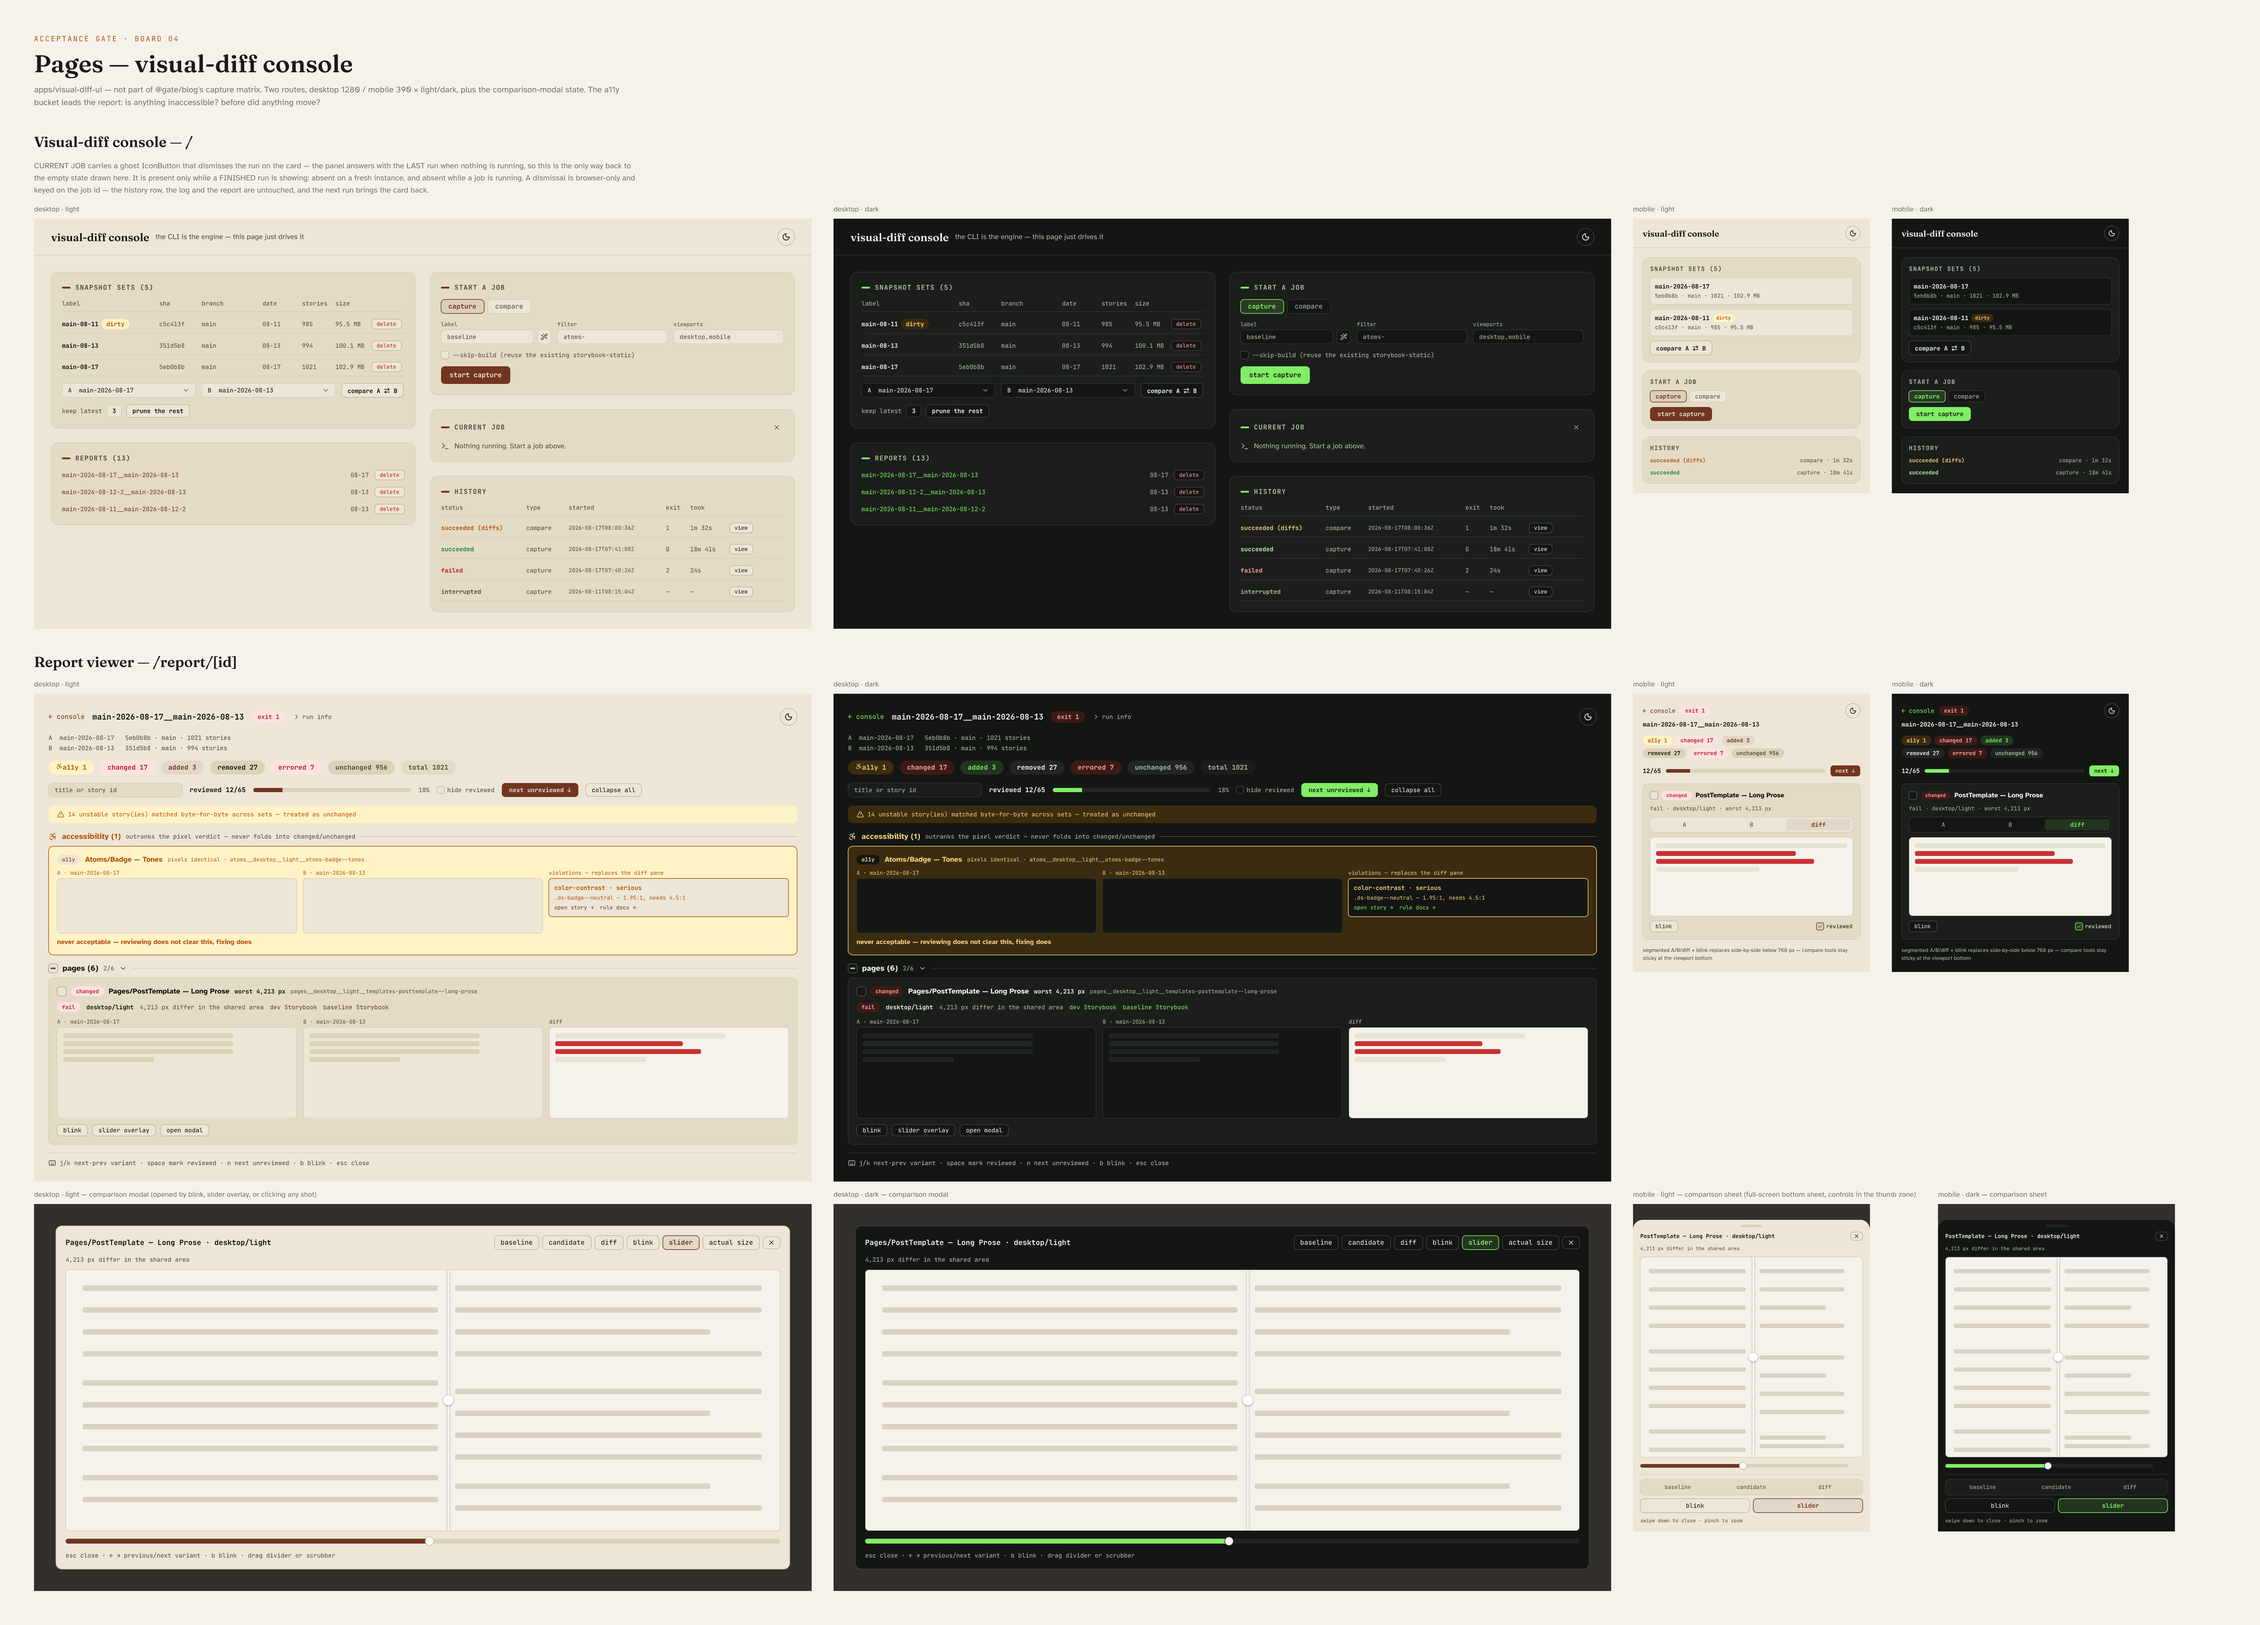
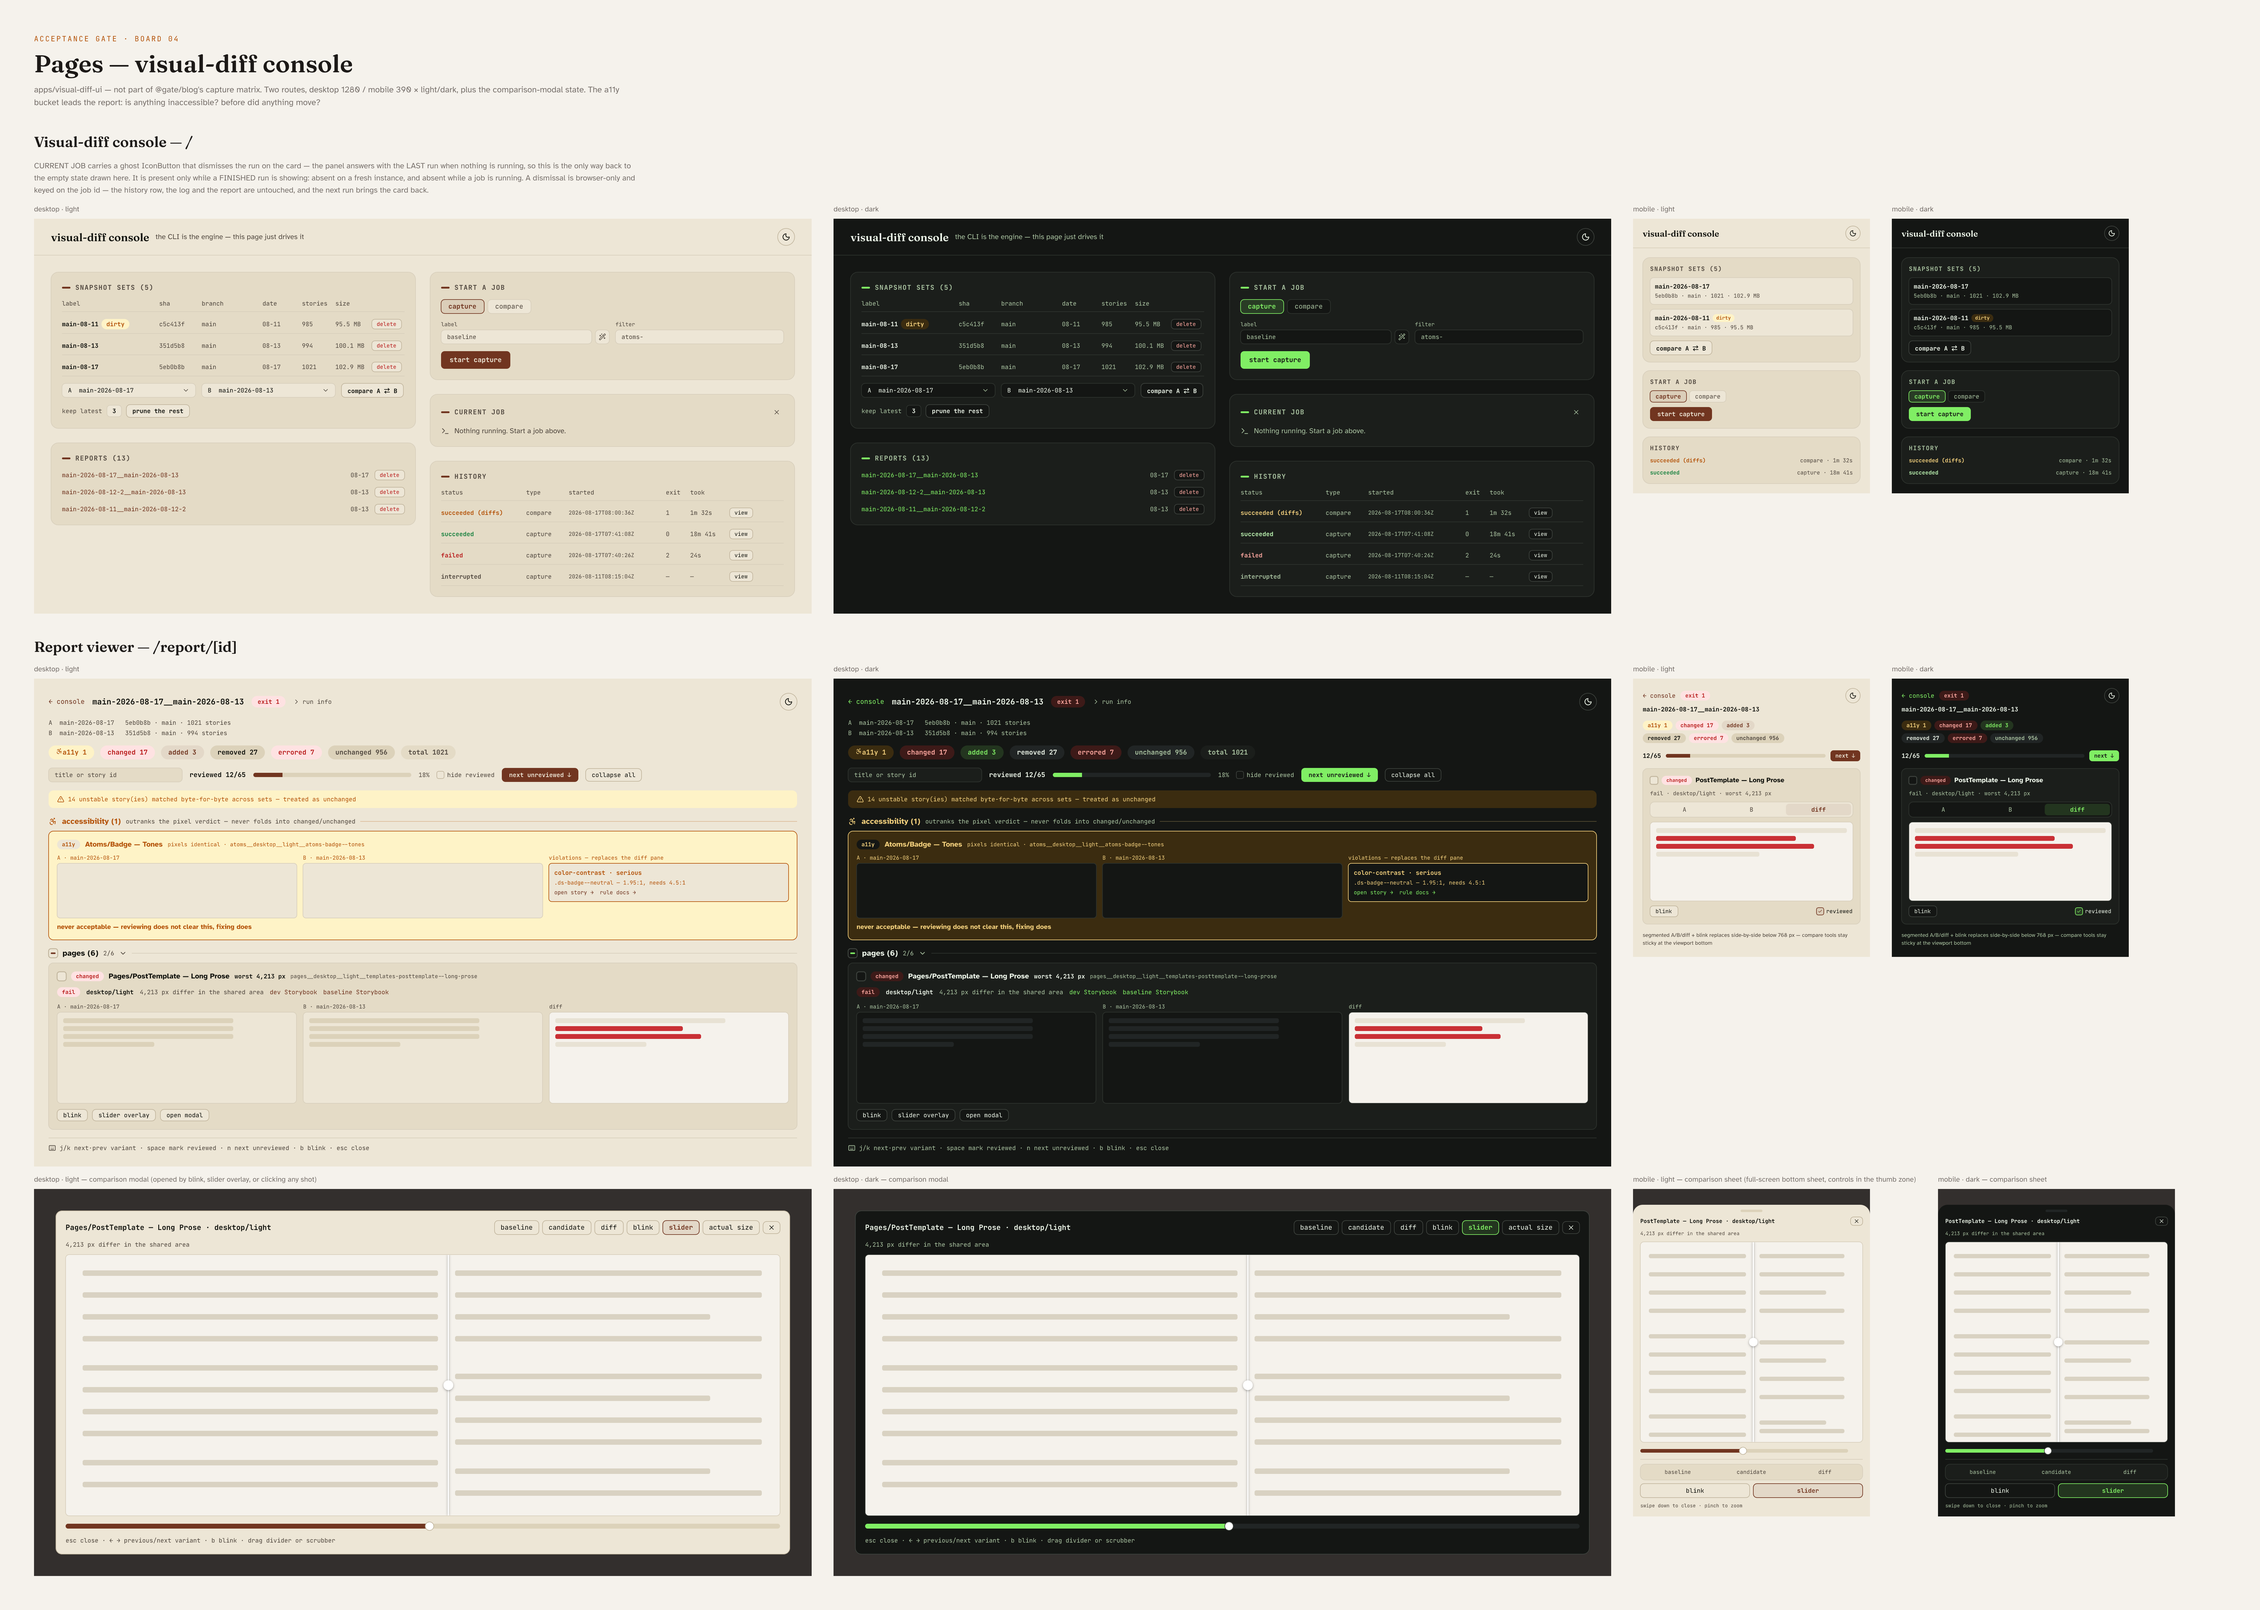
docs(design): the two atoms the board declined, and the controls the CLI has no home for (#386)
Board 01 and Board 04 both carried claims that were no longer true, and two
inventory questions had been deferred to "a design task" without anyone doing it.

Board 04's START A JOB tile drew a `viewports` field and a `--skip-build`
checkbox. Neither exists: visual-diff's whole surface is `check | accept` with
`--filter`, and the console never builds Storybook. Removed from both desktop
panels; the two mobile variants never had them. The same claim also sat in
Board 01's RunPanel caption, which #339 does not name — corrected there too.

The deferred questions, both answered by the board's own rule that twice-used is
what earns design-system status:

- `Tabs` (#365) — declined. The console's mode strip is the only consumer, so
  `ModeTabs` stays app-local rather than entering the capture matrix at two
  baselines per variant.
- `Icon` (#339) — declined again, as in #335. A glyph stays children of
  `IconButton`/`EmptyState`; the wand-sparkles twins already cross-reference
  each other from #378, and now say the decision is settled rather than pending.

Both are recorded in Board 01's header Note 2, beside the `Stack` precedent that
established the shape ("no tile, no story, no baseline").

Board first, then code, per #335. Only the two boards that changed were
re-exported; flows-decisions.png and pages.png are untouched.

Code changes are comment-only — no rendered output moves, so no baseline does.

Closes #365
Closes #339

diff --git a/apps/visual-diff-ui/components/ModeTabs.tsx b/apps/visual-diff-ui/components/ModeTabs.tsx
@@ -17,8 +17,10 @@ import type { KeyboardEvent } from 'react';
  * baselines per variant, and the tab labels here ARE the job modes. Moving it
  * would mean either a component that renders `capture`/`compare` inside a design
  * system that must not know what a job is, or a generic `Tabs` designed on the
- * board first. The second is the right shape and it is a design task, not this
- * one.
+ * board first. The second is the right shape — and Board 01 has now answered it:
+ * a generic `Tabs` was considered and declined (#365). Twice-used is what earns
+ * design-system status on that board, and this strip is the only consumer. It
+ * stays here, and the inventory note records why.
  */
 
 const PANEL_ID = 'vd-run-fields';

diff --git a/packages/ui/src/atoms/IconButton/IconButton.stories.tsx b/packages/ui/src/atoms/IconButton/IconButton.stories.tsx
@@ -7,6 +7,9 @@ import { IconButton } from './IconButton';
  * way `Dialog`'s close is stroked. It is a sample rather than part of the atom:
  * `IconButton` takes whatever glyph it is handed, and the one the visual-diff
  * console hands it lives with the panel that has a reason to.
+ *
+ * An `Icon` atom was considered for Board 01 and declined (#339); the twin in
+ * `RunPanel.tsx` stays where it is for that reason, not for want of a decision.
  */
 const Wand = () => (
   // The twin of this block is `WandGlyph` in the visual-diff console's

diff --git a/apps/visual-diff-ui/components/RunPanel.tsx b/apps/visual-diff-ui/components/RunPanel.tsx
@@ -381,6 +381,10 @@ function useLabelSuggestion(apply: (label: string) => void) {
  *
  * No `aria-hidden` here: `IconButton` wraps whatever it is handed in one, which
  * is exactly why that wrapper is the atom's job rather than the caller's.
+ *
+ * An `Icon` atom was considered for Board 01 and declined (#339): a glyph stays
+ * children of `IconButton`/`EmptyState`, so this block and its twin stay apart
+ * deliberately rather than pending a collapse.
  */
 function WandGlyph() {
   return (
